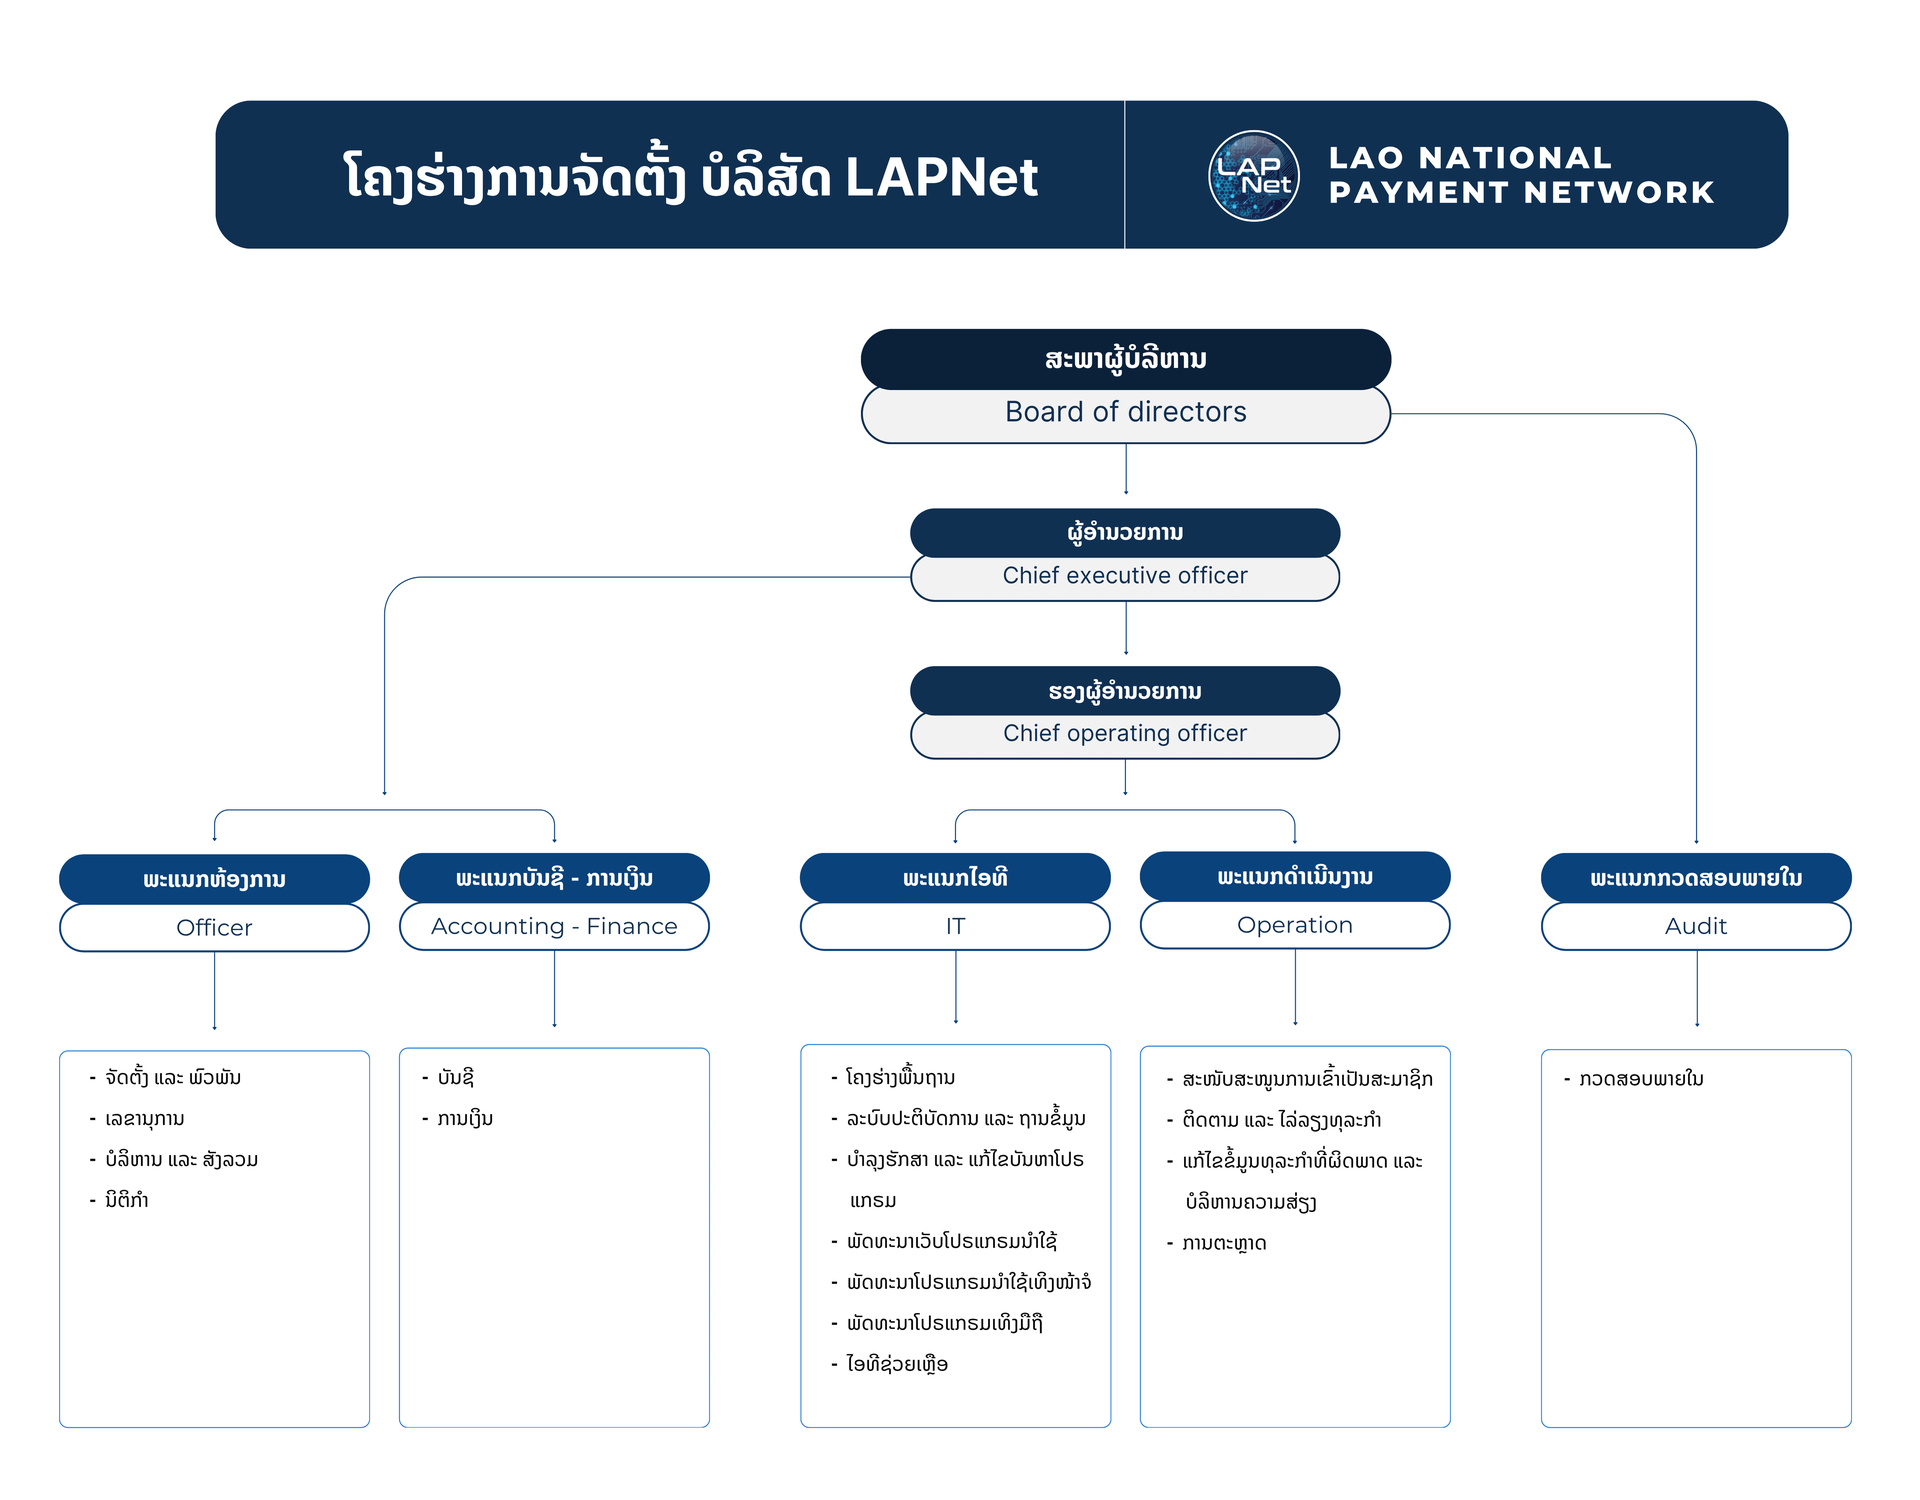
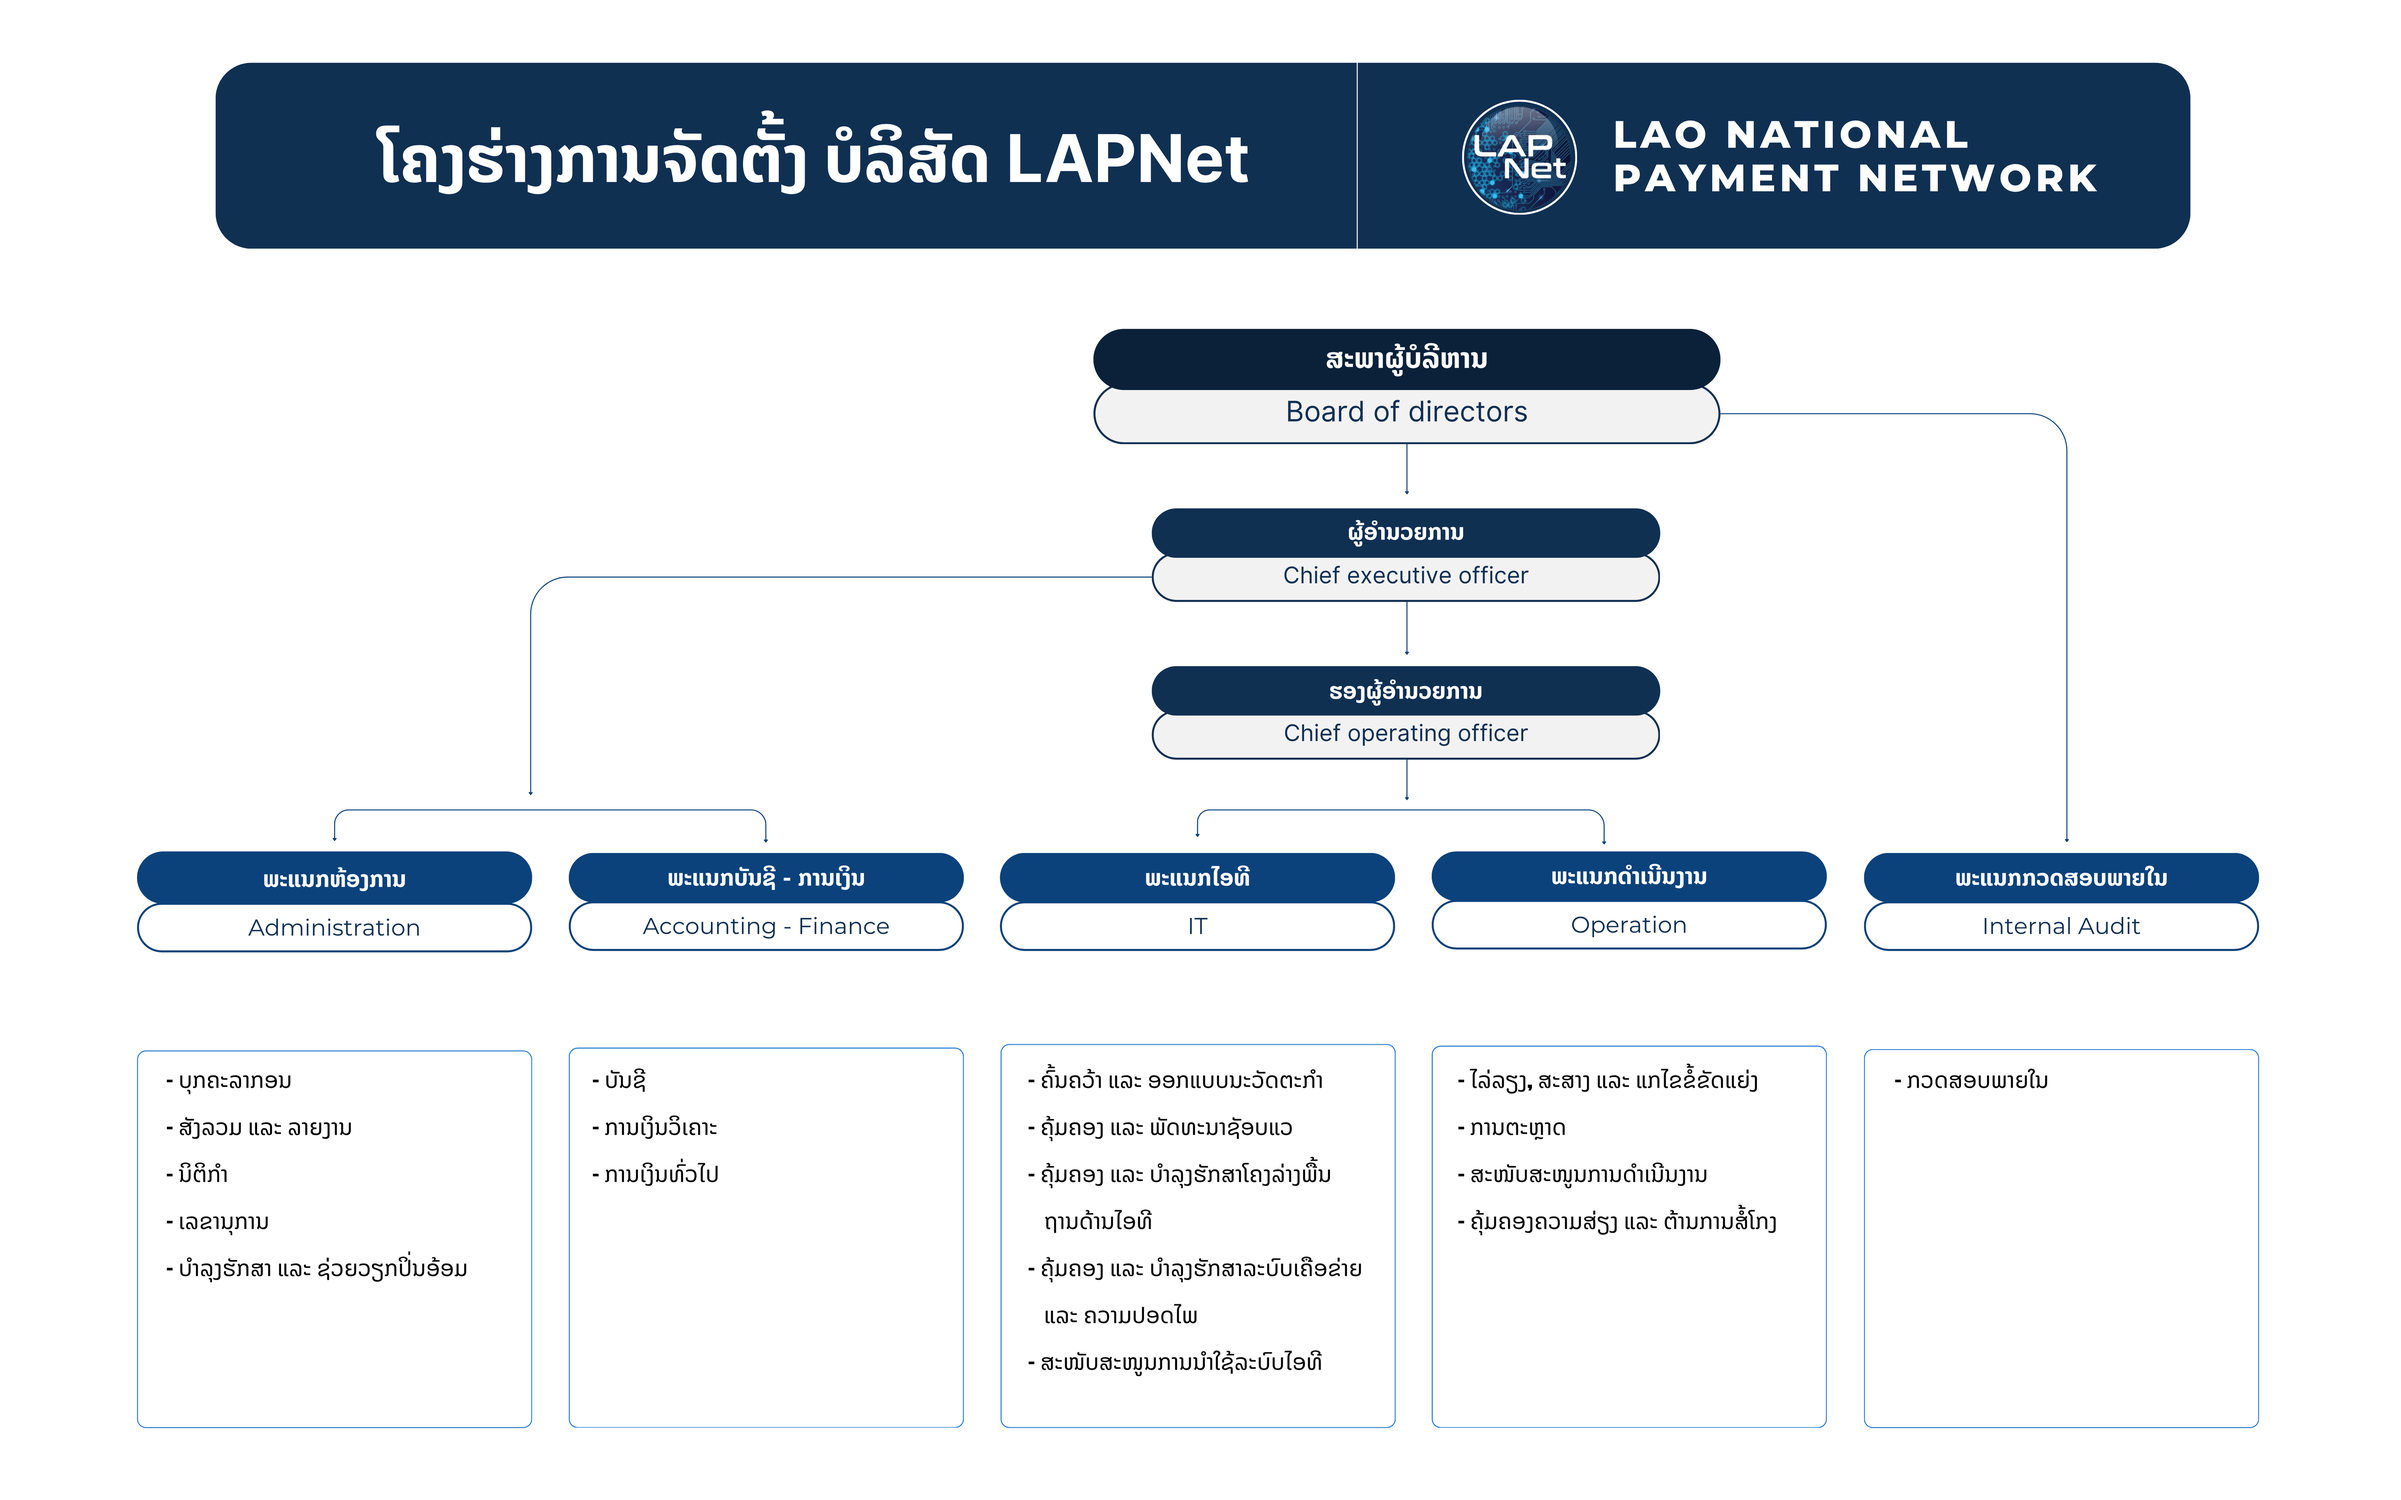
edit 19/11/2025

diff --git a/src/components/vdoproductbg/crossborder/vdoproductcrossborderKH_LA.vue b/src/components/vdoproductbg/crossborder/vdoproductcrossborderKH_LA.vue
@@ -23,17 +23,17 @@
                     </div>
                     <div class="logomember">
                         <div class="row1">
-                            <img src="../../../assets/logomember-circle/BCEL.png" alt="" />
-                            <img src="../../../assets/logomember-circle/LDB.PNG" alt="" />
-                            <img src="../../../assets/logomember-circle/APBB.PNG" alt="" />
-                            <img src="../../../assets/logomember-circle/JDB.png" alt="" />
-                            <img src="../../../assets/logomember-circle/lvb.PNG" alt="" />
-                            <img src="../../../assets/logomember-circle/IB.png" alt="" />
-                            <img src="../../../assets/logomember-circle/ACLB.png" alt="" />
-                            <img src="../../../assets/logomember-circle/BIC.png" alt="" />
-                            <img src="../../../assets/logomember-circle/scb.PNG" alt="" />
-                            <img src="../../../assets/logomember-circle/stb.PNG" alt="" />
-                            <img src="../../../assets/logomember-circle/Kasikorn.png" alt="" />
+                            <img src="../../../assets/Logomember- retangle/BCEL.png" alt="" />
+                            <img src="../../../assets/Logomember- retangle/LDBnew.png" alt="" />
+                            <img src="../../../assets/Logomember- retangle/APB.png" alt="" />
+                            <img src="../../../assets/Logomember- retangle/jdbnew.png" alt="" />
+                            <img src="../../../assets/Logomember- retangle/LVBnew.png" alt="" />
+                            <img src="../../../assets/Logomember- retangle/IBbankk.JPG" alt="" />
+                            <img src="../../../assets/Logomember- retangle/ACL.jpg" alt="" />
+                            <img src="../../../assets/Logomember- retangle/BICnew.jpeg" alt="" />
+                            <img src="../../../assets/Logomember- retangle/sacom.png" alt="" />
+                            <img src="../../../assets/Logomember- retangle/STB.jpg" alt="" />
+                            <img src="../../../assets/Logomember- retangle/Kbank.webp" alt="" />
                         </div>
                     </div>
                 </div>

diff --git a/src/components/vdoproductbg/crossborder/vdoproductcrossborderLA_KH.vue b/src/components/vdoproductbg/crossborder/vdoproductcrossborderLA_KH.vue
@@ -23,17 +23,17 @@
                     </div>
                     <div class="logomember">
                         <div class="row1">
-                            <img src="../../../assets/logomember-circle/BCEL.png" alt="" />
+                            <img src="../../../assets/Logomember- retangle/BCEL.png" alt="" />
                           
-                            <img src="../../../assets/logomember-circle/APBB.PNG" alt="" />
+                            <img src="../../../assets/Logomember- retangle/APB.png" alt="" />
                      
                        
                           
-                            <img src="../../../assets/logomember-circle/ACLB.png" alt="" />
+                            <img src="../../../assets/Logomember- retangle/ACL.jpg" alt="" />
             
-                            <img src="../../../assets/logomember-circle/scb.PNG" alt="" />
-                            <img src="../../../assets/logomember-circle/stb.PNG" alt="" />
-                            <img src="../../../assets/logomember-circle/mb.png" alt="" />
+                            <img src="../../../assets/Logomember- retangle/sacom.png" alt="" />
+                            <img src="../../../assets/Logomember- retangle/STB.jpg" alt="" />
+                            <img src="../../../assets/Logomember- retangle/MB.png" alt="" />
                         </div>
                     </div>
                 </div>

diff --git a/src/Views/product-service/product6.vue b/src/Views/product-service/product6.vue
@@ -158,12 +158,27 @@ watch(
 
             <component :is="currentVideoComponent" :key="$route.path" />
         </div>
+        <div class="descriptionforcustomer">
+            
+        </div>
     </div>
 
     <mainfooter></mainfooter>
 </template>
 
 <style scoped>
+
+
+
+.descriptionforcustomer {
+    width: 100%;
+    height: 800px;
+
+    border: 1px solid red;
+    margin-top: 50px;
+
+}
+
 .videocorssbordershow {
     margin-top: 40px;
     width: 100%;
@@ -221,9 +236,10 @@ watch(
 
 .infomationcorss-border {
     width: 100%;
-    height: 1900px;
+    height: auto;
 
-    padding-bottom: 100px;
+    border: 1px solid rgb(0, 13, 255);
+
 }
 
 #bgpd1-page2 {

diff --git a/src/Views/Blog/blogdetailpage/blogdetail/blogdetail6.vue b/src/Views/Blog/blogdetailpage/blogdetail/blogdetail6.vue
@@ -2,6 +2,14 @@
 import navbarview2 from '../../../../components/navbar/navbarview2.vue';
 import mainfooter from '../../../../components/footer/mainfooter.vue';
 import { onMounted } from 'vue';
+onMounted(() => {
+
+    window.scrollTo({
+        top: 670,
+        left: 0,
+        behavior: 'smooth'
+    })
+})
 
 </script>
 

diff --git a/src/Views/About-us/History.vue b/src/Views/About-us/History.vue
@@ -1,6 +1,7 @@
-<script lang="ts">
+<script setup>
 import navbarview2 from '../../components/navbar/navbarview2.vue';
 import mainfooter from '../../components/footer/mainfooter.vue';
+
 </script>
 
 <template>
